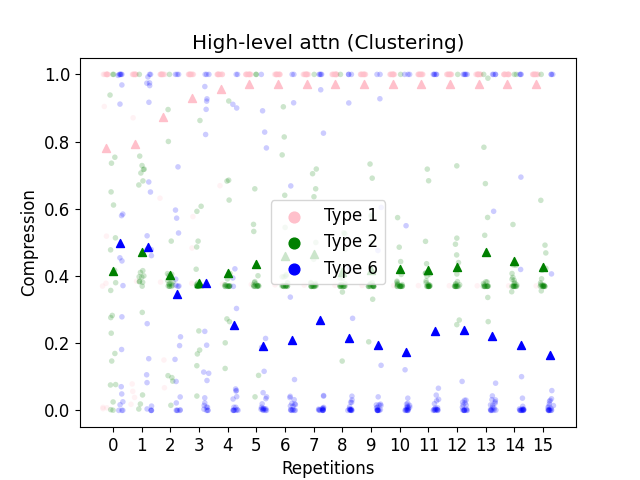
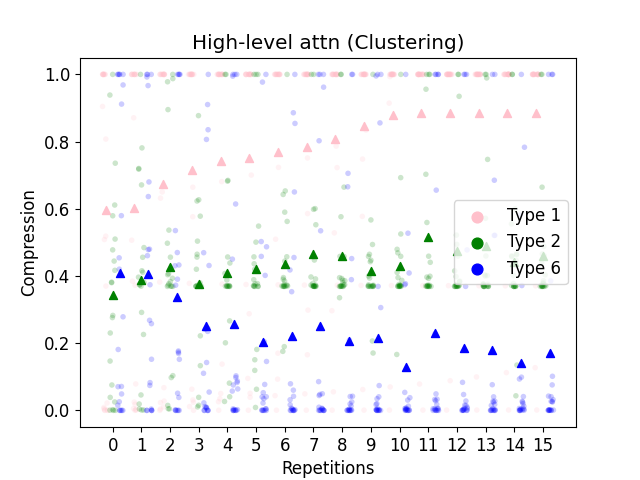
update compression results for trial-level using latest hyper4100

diff --git a/compression.py b/compression.py
@@ -567,11 +567,11 @@ if __name__ == '__main__':
     
     mixed_effects_analysis(repr_level)
     
-    # compression_execute_repetition_level(
-    #     config_version=config_version, 
-    #     repr_level=repr_level, 
-    #     subs=subs, 
-    #     num_repetitions=num_repetitions,
-    #     tasks=tasks, 
-    #     num_processes=num_processes
-    # )
+    compression_execute_repetition_level(
+        config_version=config_version, 
+        repr_level=repr_level, 
+        subs=subs, 
+        num_repetitions=num_repetitions,
+        tasks=tasks, 
+        num_processes=num_processes
+    )
